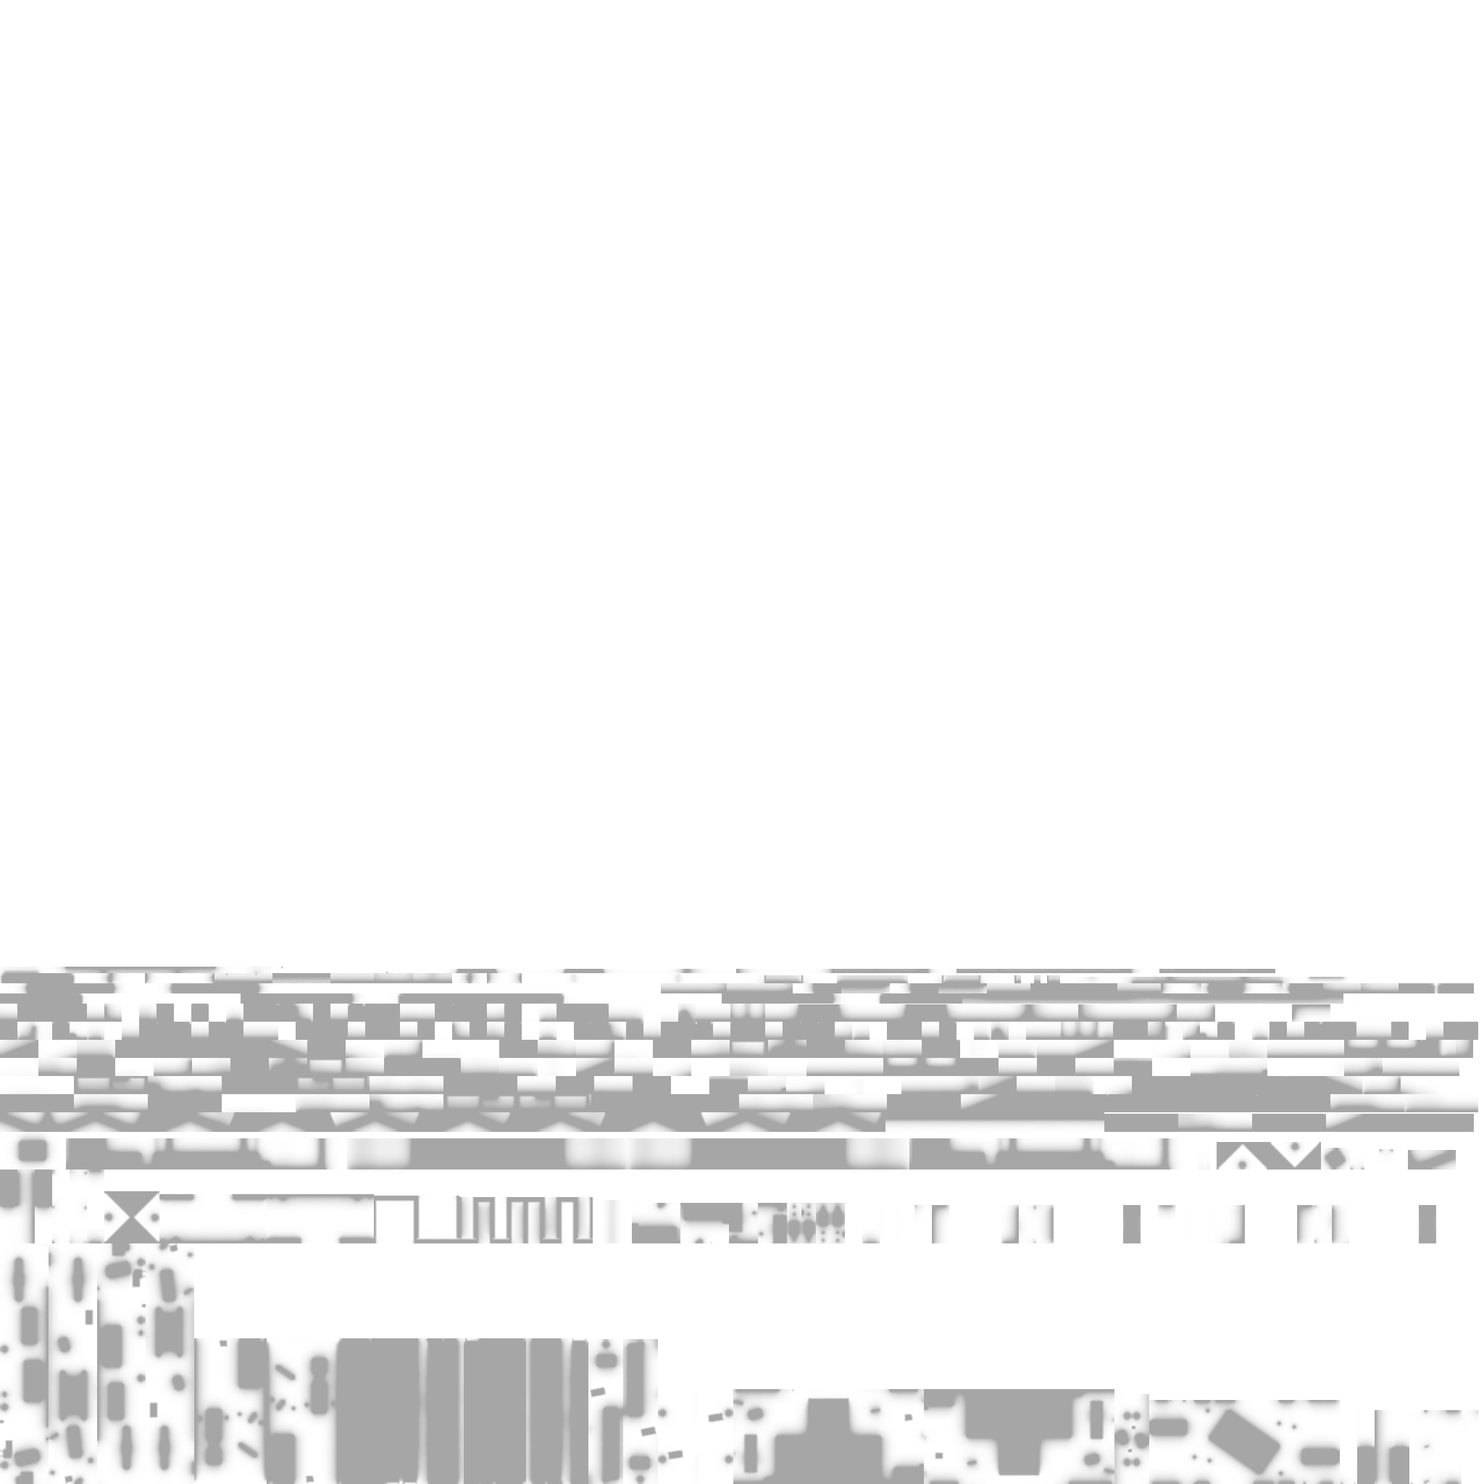
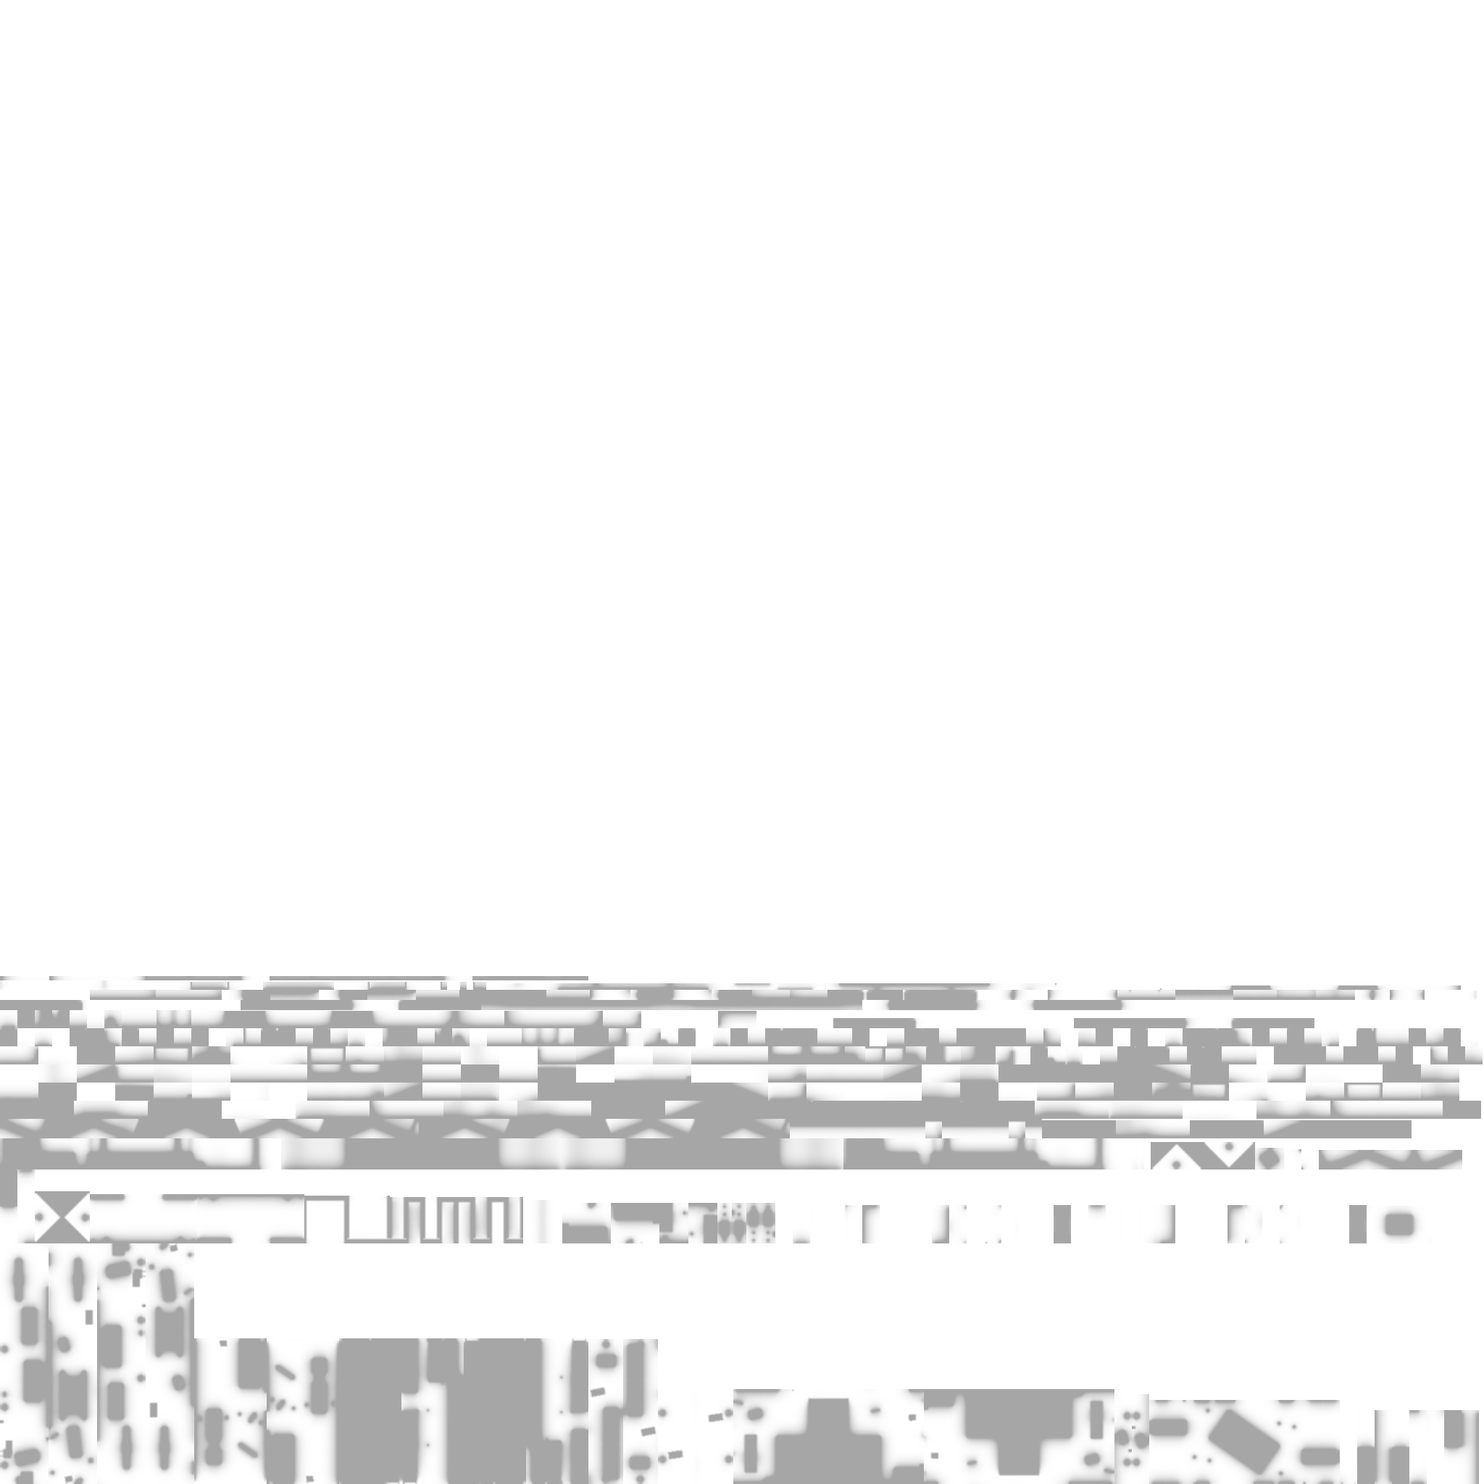
Tower Command stages round 2: Kelpline Terminal — a ground-level aisle through the containers
The user's "GAP" (round-1 feedback on shots 13–16) meant a gap through the containers so the tower stays on the ground,
not a bridge over the reefer alley. Tower Command only (originals notIn 'tower', replacements onlyIn 'tower'); Turf War
and Zone Control build exactly as before (their layout + dressing unchanged; kelpline.png rebakes byte-identical).
- The reefer rack gets an aisle (layout.js AISLE): row 0's 40' becomes a 20' and a 10' with a 3.1 m aisle between them
  (doors on the aisle); the grate catwalk is cut over it (hazard-striped ends, the base half stops at the column pair,
  still a jumpable gap); checkpoint 3 now stands on the ground in it
- Row 1's boxes are lifted out and row 2's three boxes along the aisle slide 0.9 m toward the apron, so the track turns
  and runs down row 1's empty slot at ground level to the base apron (no climb at s 83, no drop at s 108)
- Row 1's mid stair lands on a new grate landing that steps across onto the catwalk (edge channels, a post)
- Reefer rack dressing: a Tower-only copy with the catwalk cut (stringers / cross members / lamps stop, a cable over the
  aisle droops the other way), no plug-in cables on the side where row 1 was, the landing's steel; a 10' box length
- Round 1's crossover plate and its dressing removed; the twistlock bin by the goal moved 0.7 m off the track
- Track: the last two corners 0.52 m further out (berth-local x 12.2) to centre the platform in row 1's slot; same shape
  and checkpoints
[…]

diff --git a/src/world/stages/kelpline/props.js b/src/world/stages/kelpline/props.js
@@ -7,7 +7,7 @@
 //
 // Conventions: metres, Y up, `pos` = base point, rotY turns local +Z (the "front"). Wall-mounted pieces treat local
 // z = 0 as the wall face and project toward +Z. Signage uses 3D channel / flat painted letters from a stroke font.
-import { LOCAL, ROT_RAD, toWorld, GRID, CROSSOVER } from './layout.js';
+import { LOCAL, ROT_RAD, toWorld, AISLE } from './layout.js';
 
 const P = Math.PI;
 
@@ -544,7 +544,7 @@ export function register(D, H) {
   // the door end (two leaves, four locking bars with cams + handles, hinges, CSC plate, owner code), or for reefers the
   // machinery end at −Z (grille, fan, control box, power cable). Everything hugs the block faces (≤ 4 cm proud).
   function containerBody(B, x, y, z, len, color, o = {}) {
-    const L = len === 20 ? 6.06 : 12.19, W = 2.44, Hh = o.h ?? 2.6, c = color, dk = shade(c, 0.8), dk2 = shade(c, 0.6);
+    const L = len === 20 ? 6.06 : len === 10 ? 2.99 : 12.19, W = 2.44, Hh = o.h ?? 2.6, c = color, dk = shade(c, 0.8), dk2 = shade(c, 0.6);
     B.push(x, y, z, o.ry ?? 0);
     if (o.bottom) {
       // loose box (hanging from the spreader / on a chassis): core + ribbed side sheets + cross members underneath
@@ -628,7 +628,7 @@ export function register(D, H) {
   }
   D.kelpline_box = {
     desc: 'Container dressing for a stack box (the body is a level block): corner posts + castings, rails, forklift pockets, door end (locking bars, cams, hinges, CSC plate, owner code) at +Z or a reefer machinery end — hardware only over the block face, so ink on the end shows. pos = bottom centre, local Z = length.',
-    params: { len: '20 | 40', color: 'box paint', door: '+1 door at local +Z, -1 at −Z', reefer: 'bool', code: 'owner code' }, variants: 1, mount: 'ground',
+    params: { len: '10 | 20 | 40', color: 'box paint', door: '+1 door at local +Z, -1 at −Z', reefer: 'bool', code: 'owner code' }, variants: 1, mount: 'ground',
     build(B, o) {
       B.aoBase = null;
       containerBody(B, 0, 0, 0, o.len ?? 20, o.color ?? '#a8583f', { doorAt: o.door ?? 1, reefer: !!o.reefer, code: o.code });
@@ -787,13 +787,17 @@ export function register(D, H) {
   // between the reefer rows): column pairs every ~6 m at the alley edges (colliders), channel stringers + cross members
   // under the grate catwalk (catwalk top 2.6), top frame at 5.7 with cable trays, CEE socket boxes + plugged cables
   // to the reefers, alley lights under the catwalk, floods on the top frame, R2 end plates.
+  // Tower Command's build (layout.js AISLE) passes gap: [z0, z1] where the catwalk is cut for the tower's aisle (its
+  // stringers stop, hazard-striped ends), bare: [sx, z] — no reefer row on side sx below z (no cables to plug in) — and
+  // landing: [z0, z1], the grate landing at row 1's stair top off the −X side (the grate is a level block).
   D.kelpline_reeferrack = {
     desc: 'Reefer plug-in rack over an alley (pos = alley centre at ground, local Z along it): columns (colliders), catwalk stringers + cross members, top frame + cable trays, socket boxes + cables, lights, end plates.',
-    params: { length: 'm (18.35)', width: 'alley m (2.0)', name: 'end plate (R2)' }, variants: 1, mount: 'ground',
+    params: { length: 'm (18.35)', width: 'alley m (2.0)', name: 'end plate (R2)', gap: '[z0, z1] catwalk cut', bare: '[sx, z] no cables on side sx below z', landing: '[z0, z1] stair landing off −X' }, variants: 1, mount: 'ground',
     build(B, o) {
       B.aoBase = null;
       const L = o.length ?? 18.35, W = o.width ?? 2.0, YC = 2.6, YT = 5.7, bl = K.blue, bd = K.blueDk;
       const n = Math.max(2, Math.round(L / 6)) + 1, cz = (i) => -L / 2 + 0.15 + ((L - 0.3) * i) / (n - 1);
+      const gap = o.gap, inGap = (zz) => !!gap && zz > gap[0] - 0.05 && zz < gap[1] + 0.05;
       for (let i = 0; i < n; i++) {
         const z = cz(i);
         for (const sx of [-1, 1]) {
@@ -811,18 +815,22 @@ export function register(D, H) {
             pbox(B, NS('glow'), '#8fe39a', 0.05, 0.03, 0.01, 0.1, 0.16, 0.145, { glow: 1.4 });
             B.pop();
           }
-          B.tube(NS('paint'), '#26282c', [P3(x + sx * 0.3, YC + 0.9, z), P3(x + sx * 0.45, YC + 0.35, z + 0.2), P3(x + sx * 0.8, YC + 0.06, z + 0.5), P3(x + sx * 1.6, YC + 0.03, z + 0.7)], 0.025, { radial: 5 });
+          if (o.bare && sx === o.bare[0] && z < o.bare[1]) continue;
+          const f = inGap(z + 0.7) ? -1 : 1;   // (a cable that would hang over the aisle droops the other way, onto the box)
+          B.tube(NS('paint'), '#26282c', [P3(x + sx * 0.3, YC + 0.9, z), P3(x + sx * 0.45, YC + 0.35, z + f * 0.2), P3(x + sx * 0.8, YC + 0.06, z + f * 0.5), P3(x + sx * 1.6, YC + 0.03, z + f * 0.7)], 0.025, { radial: 5 });
         }
         // top cross beam + catwalk cross member + lamp under the catwalk
         pbox(B, 'paint', bl, W, 0.22, 0.16, 0, YT - 0.11, z);
         pbox(B, NS('paint'), bd, W - 0.2, 0.14, 0.1, 0, YC - 0.22, z);
-        B.box(NS('paint'), K.charcoal, 0.5, 0.08, 0.18, 0, YC - 0.34, z + 0.4, { r: 0.02 });
-        pbox(B, NS('glow'), K.lampCool, 0.44, 0.012, 0.12, 0, YC - 0.385, z + 0.4, { glow: 3.2 });
+        const lz = inGap(z + 0.4) ? z - 0.4 : z + 0.4;
+        B.box(NS('paint'), K.charcoal, 0.5, 0.08, 0.18, 0, YC - 0.34, lz, { r: 0.02 });
+        pbox(B, NS('glow'), K.lampCool, 0.44, 0.012, 0.12, 0, YC - 0.385, lz, { glow: 3.2 });
       }
       // catwalk stringers along both edges + intermediate cross members every 1.2 m
+      const spans = gap ? [[-L / 2, gap[0]], [gap[1], L / 2]] : [[-L / 2, L / 2]];
       for (const sx of [-1, 1]) {
-        pbox(B, 'paint', bd, 0.08, 0.22, L, sx * (W / 2 - 0.05), YC - 0.26, 0);
-        pbox(B, NS('paint'), K.hazY, 0.085, 0.05, L, sx * (W / 2 - 0.05), YC - 0.13, 0);
+        for (const [a, b] of spans) pbox(B, 'paint', bd, 0.08, 0.22, b - a, sx * (W / 2 - 0.05), YC - 0.26, (a + b) / 2);
+        for (const [a, b] of spans) pbox(B, NS('paint'), K.hazY, 0.085, 0.05, b - a, sx * (W / 2 - 0.05), YC - 0.13, (a + b) / 2);
         // top longitudinal beams + cable trays
         pbox(B, 'paint', bl, 0.16, 0.26, L, sx * (W / 2 - 0.11), YT - 0.13, 0);
         B.push(sx * (W / 2 - 0.45), YT + 0.1, 0);
@@ -831,7 +839,25 @@ export function register(D, H) {
         for (let k = 0; k < 4; k++) B.cyl(NS('paint'), ['#26282c', '#3a3d44', '#2e4a6a', '#26282c'][k], 0.03, L, -0.15 + k * 0.1, 0.045, 0, { rx: HP, seg: 5 });
         B.pop();
       }
-      for (let z = -L / 2 + 0.6; z < L / 2 - 0.3; z += 1.2) pbox(B, NS('paint'), bd, W - 0.2, 0.08, 0.06, 0, YC - 0.2, z);
+      for (let z = -L / 2 + 0.6; z < L / 2 - 0.3; z += 1.2) if (!inGap(z)) pbox(B, NS('paint'), bd, W - 0.2, 0.08, 0.06, 0, YC - 0.2, z);
+      // the catwalk's cut ends: hazard stripes on the end faces, a cross channel under an end that's clear of a column pair
+      if (gap) for (const [ze, f] of [[gap[0], 1], [gap[1], -1]]) {
+        B.push(0, YC - 0.075, ze, f > 0 ? 0 : PI); hazard(B, W - 0.04, 0.13, 0, 0, 0.001, { pitch: 0.24 }); B.pop();
+        let near = false;
+        for (let i = 0; i < n; i++) if (Math.abs(cz(i) - ze) < 0.3) near = true;
+        if (!near) pbox(B, NS('paint'), bd, W - 0.2, 0.14, 0.1, 0, YC - 0.22, ze - f * 0.06);
+      }
+      // row 1's stair landing off the −X side: edge channels under its open sides, a post at its free corner (collider),
+      // hazard stripes along its open edge
+      if (o.landing) {
+        const [z0, z1] = o.landing, x0 = -W / 2 - 2.44, xm = (x0 - W / 2) / 2;
+        pbox(B, 'paint', bd, 2.44, 0.22, 0.08, xm, YC - 0.26, z0 + 0.04);
+        pbox(B, 'paint', bd, 0.08, 0.22, z1 - z0, x0 + 0.04, YC - 0.26, (z0 + z1) / 2);
+        B.push(xm, YC - 0.075, z0, PI); hazard(B, 2.4, 0.13, 0, 0, 0.001, { pitch: 0.24 }); B.pop();
+        pbox(B, 'paint', bl, 0.14, YC - 0.15, 0.14, x0 + 0.09, (YC - 0.15) / 2, z0 + 0.09);
+        pbox(B, NS('metal'), K.galvDk, 0.26, 0.03, 0.26, x0 + 0.09, 0.015, z0 + 0.09);
+        B.col(x0 + 0.02, 0, z0 + 0.02, x0 + 0.16, YC - 0.15, z0 + 0.16);
+      }
       // floods on the top frame over the rows, end plates
       for (let i = 0; i < n; i += 2) for (const sx of [-1, 1]) flood(B, sx * 0.4, YT + 0.35, cz(i), { rx: 0, glow: 1.5 });
       for (const sz of [-1, 1]) {
@@ -840,19 +866,6 @@ export function register(D, H) {
         letters(B, 'REEFER ' + (o.name ?? 'R2'), { h: 0.2, x: 0, y: -0.1, z: 0.03, c: bd, flat: true, wt: 0.22 });
         B.pop();
       }
-    },
-  };
-
-  // Tower Command crossover over the reefer alley (the plate itself is a layout block: layout.js CROSSOVER): hazard bands
-  // on its two ends, where the grate catwalk carries on either side. pos = the plate's top centre; w across the alley,
-  // d along it. Non-colliding.
-  D.kelpline_crossover = {
-    desc: 'Crossover plate dressing (pos = top centre of the plate block; w across the alley, d along it, t thick): hazard-striped end faces. Non-colliding.',
-    params: { w: 'm (2.0)', d: 'm (3.0)', t: 'plate thickness (0.15)' }, variants: 1, mount: 'ground',
-    build(B, o) {
-      B.aoBase = null;
-      const w = o.w ?? 2.0, d = o.d ?? 3.0, t = o.t ?? 0.15;
-      for (const sz of [-1, 1]) { B.push(0, -t / 2, (sz * d) / 2, sz > 0 ? 0 : PI); hazard(B, w - 0.04, t - 0.02, 0, 0, 0.001, { pitch: 0.24 }); B.pop(); }
     },
   };
 
@@ -1793,7 +1806,11 @@ const LOCAL_PLACEMENTS = [
   { type: 'kelpline_quayedge', pos: [-29.5, 0, -46.4], rotY: -P / 2, length: 4.4 },
   { type: 'kelpline_quayedge', pos: [-24, 0, -46.4], rotY: P, length: 5.5, bollards: [2.7] },
   // the reefer rack over the alley, hatch-cover dressing (mid landing — square to the harbour — + apron)
-  { type: 'kelpline_reeferrack', pos: [-9.44, 0, -16.125], rotY: 0, length: 18.35, width: 2.0, name: 'R2' },
+  { type: 'kelpline_reeferrack', pos: [-9.44, 0, -16.125], rotY: 0, length: 18.35, width: 2.0, name: 'R2', notIn: 'tower' },
+  // (Tower Command: the rack over its aisle — layout.js AISLE — the catwalk cut, no cables on the side where row 1 was,
+  //  row 1's stair landing; rack-local z = local z + 16.125)
+  { type: 'kelpline_reeferrack', pos: [-9.44, 0, -16.125], rotY: 0, length: 18.35, width: 2.0, name: 'R2', onlyIn: 'tower',
+    gap: AISLE.gap.map((z) => z + 16.125), bare: [-1, AISLE.landing + 16.125], landing: [AISLE.landing + 16.125, -13.25 + 16.125] },
   { type: 'kelpline_hatch', pos: [0, 0, 0], rotY: 0, w: 10.8, d: 6, h: 1.2, num: '4', mirror: false, world: true },
   { type: 'kelpline_hatch', pos: [0, 0, 0], rotY: 0, w: 4.4, d: 3.2, h: 1.2, y0: 1.2, c: '#58779a', mirror: false, world: true },
   { type: 'kelpline_hatch', pos: [18.6, 0, -23.5], rotY: P / 2, w: 7, d: 2.8, h: 1.2, num: '7' },
@@ -1807,7 +1824,8 @@ const LOCAL_PLACEMENTS = [
   { type: 'kelpline_cage', pos: [22.7, 0, -35], rotY: P / 2 },
   { type: 'kelpline_cage', pos: [-22.9, 0, -12.5], rotY: P / 2 },
   { type: 'kelpline_cage', pos: [1.2, 0, -7.6], rotY: 0.08, variant: 1 },
-  { type: 'kelpline_cage', pos: [-13.8, 0, -36.2], rotY: 0.04, variant: 1 },
+  { type: 'kelpline_cage', pos: [-13.8, 0, -36.2], rotY: 0.04, variant: 1, notIn: 'tower' },
+  { type: 'kelpline_cage', pos: [-14.5, 0, -36.2], rotY: 0.04, variant: 1, onlyIn: 'tower' },   // (Tower Command: off the goal)
   { type: 'kelpline_cage', pos: [27.2, 0, -3.2], rotY: 0.15 },
   // flat rack with crated cargo on the left apron, light towers (cover by day, the lamps at dusk)
   { type: 'kelpline_flatrack', pos: [19.2, 0, -14.0], rotY: 0, len: 20 },
@@ -1844,8 +1862,6 @@ const LOCAL_PLACEMENTS = [
   { type: 'cone', pos: [7.2, 0, -4.4], notIn: 'tower' }, { type: 'cone', pos: [8.9, 0, -0.6], notIn: 'tower' }, { type: 'cone', pos: [-6.3, 0, -5.4] },
   // (Tower Command: the track runs out from the centre and back along the stack ends — those two stand inside its bend)
   { type: 'cone', pos: [6.0, 0, -3.2], onlyIn: 'tower' }, { type: 'cone', pos: [8.6, 0, -2.6], onlyIn: 'tower' },
-  // Tower Command: the crossover plate's hazard ends (layout.js CROSSOVER)
-  { type: 'kelpline_crossover', pos: [(GRID.RF.alley[0] + GRID.RF.alley[1]) / 2, 2.6, (CROSSOVER[0] + CROSSOVER[1]) / 2], rotY: 0, w: GRID.RF.alley[1] - GRID.RF.alley[0], d: CROSSOVER[1] - CROSSOVER[0], onlyIn: 'tower' },
   // safety boards
   { type: 'kelpline_signboard', pos: [-8.1, 0, -35.0], rotY: 0.2, variant: 0 },
   { type: 'kelpline_signboard', pos: [15.5, 0, -33.6], rotY: -0.25, variant: 2 },

diff --git a/src/world/stages/kelpline/layout.js b/src/world/stages/kelpline/layout.js
@@ -84,8 +84,8 @@ function slotSides(pieces) {
   }
 }
 
-// ISO box: 2.44 wide, 2.6 high (high cube ≈ 2.9, we use 2.6 so tiers stay jump-sized), 6.06 / 12.19 long
-const CW = 2.44, CH = 2.6, LEN = { 20: 6.06, 40: 12.19 };
+// ISO box: 2.44 wide, 2.6 high (high cube ≈ 2.9, we use 2.6 so tiers stay jump-sized), 6.06 / 12.19 long (a 10' 2.99)
+const CW = 2.44, CH = 2.6, LEN = { 10: 2.99, 20: 6.06, 40: 12.19 };
 // a container along z: x0 = its −X side, z0 = its −Z end, tier 0 = on the ground. o.door: 1 = doors at the +Z end
 // (0 = −Z), o.logo: 1–3 = 40' line logo (murals 9/10 on both long sides), o.reefer: machinery end.
 // The tag carries the dressing spec for props.js (container castings, doors, reefer units).
@@ -131,8 +131,12 @@ const X_ = [1, 0, 0], _X = [-1, 0, 0], Z_ = [0, 0, 1], _Z = [0, 0, -1];
 // Tower Command's own build (variants.js: a tower match builds '<id>.tower'): pieces only in it / left out of it. The
 // track (src/world/tower-data.js) is authored on Bravo's half; its mirror — Bravo's push — runs through this half.
 const towerOnly = (p) => ({ ...p, onlyIn: 'tower' }), notTower = (p) => ({ ...p, notIn: 'tower' });
-// the track crosses the reefer alley here (local z; Alpha's checkpoint 3 on the mirror): a solid crossover plate
-export const CROSSOVER = [-19.0, -16.0];
+// Tower Command's aisle through the reefer rack (the user's "GAP"): the track stays on the ground there. It comes across
+// the truck lane through a cut in row 0 and under a cut in the grate catwalk (local z gap[0] … gap[1], between the
+// rack's middle column pairs; checkpoint 3 stands in it), then turns toward the base down row 1's slot: row 1's boxes are
+// lifted out and row 2's shifted `shift` m toward the apron so the platform fits. Row 1's mid stair lands on a grate
+// landing (local z landing … −13.25) that steps across onto the catwalk.
+export const AISLE = { gap: [-19.24, -16.1], shift: 0.9, landing: -14.65 };
 
 // Local-frame pieces (exported for props.js: the container / stair dressing is generated from them)
 export const LOCAL = {
@@ -199,16 +203,21 @@ export const LOCAL = {
 
     // ================= Reefer rack (−X): reefers either side of the plug-in rack; grate catwalk over the alley
     ...stairZ(RF.row0 + CW / 2, G.zs, -25.3, 0, 2.6, 2.3),
-    box(RF.row0, -25.3, 40, 0, K.white, { reefer: 1 }), box(RF.row0, -13.01, 20, 0, K.white, { reefer: 1, door: 0 }),
+    notTower(box(RF.row0, -25.3, 40, 0, K.white, { reefer: 1 })), box(RF.row0, -13.01, 20, 0, K.white, { reefer: 1, door: 0 }),
     notTower(B(RF.alley[0], RF.alley[1], 2.45, 2.6, -25.3, -6.95, { tag: 'reefer-catwalk', color: K.steel, pattern: PATTERN.grate, grate: true })),
-    // Tower Command: the track crosses the alley on the stack tops (the user's "GAP"): the grate catwalk stops either side
-    // of a solid chequer-plate crossover flush with the reefer tops, between two of the rack's column pairs
-    ...[[-25.3, CROSSOVER[0]], [CROSSOVER[1], -6.95]].map(([z0, z1]) => towerOnly(B(RF.alley[0], RF.alley[1], 2.45, 2.6, z0, z1, { tag: 'reefer-catwalk', color: K.steel, pattern: PATTERN.grate, grate: true }))),
-    towerOnly(B(RF.alley[0], RF.alley[1], 2.45, 2.6, CROSSOVER[0], CROSSOVER[1], { tag: 'crossover', color: '#63788e', pattern: SURF.chequer })),
-    box(RF.row1, G.zs, 20, 0, K.white, { reefer: 1, door: 0 }), box(RF.row1, -25.44, 40, 0, K.cream, { reefer: 1 }),
+    notTower(box(RF.row1, G.zs, 20, 0, K.white, { reefer: 1, door: 0 })), notTower(box(RF.row1, -25.44, 40, 0, K.cream, { reefer: 1 })),
     ...stairZ(RF.row1 + CW / 2, -6.95, -13.25, 0, 2.6, 2.3),
-    box(RF.row2, G.zs, 20, 0, K.white, { reefer: 1, door: 0 }), box(RF.row2, G.zs, 20, 1, K.white, { reefer: 1, door: 0 }), box(RF.row2, -25.44, 40, 0, K.white, { reefer: 1 }),
-    box(RF.row2, -13.15, 20, 0, K.white, { reefer: 1 }), box(RF.row2, -13.15, 20, 1, K.cream, { reefer: 1 }),
+    notTower(box(RF.row2, G.zs, 20, 0, K.white, { reefer: 1, door: 0 })), notTower(box(RF.row2, G.zs, 20, 1, K.white, { reefer: 1, door: 0 })), notTower(box(RF.row2, -25.44, 40, 0, K.white, { reefer: 1 })),
+    notTower(box(RF.row2, -13.15, 20, 0, K.white, { reefer: 1 })), box(RF.row2, -13.15, 20, 1, K.cream, { reefer: 1 }),
+    // Tower Command: the aisle (AISLE above). Row 0's 40' becomes a 20' and a 10' with the aisle between them (doors on
+    // the aisle); the catwalk stops either side of it (the base half at the column pair); row 1 lifted out; row 2's three
+    // boxes along the aisle slid out toward the apron (the mid-end pair stays; its box is rebuilt only so its end — no
+    // longer in a slot — takes ink)
+    towerOnly(box(RF.row0, -25.3, 20, 0, K.white, { reefer: 1 })), towerOnly(box(RF.row0, AISLE.gap[1], 10, 0, K.white, { reefer: 1, door: 0 })),
+    ...[[-25.3, AISLE.gap[0]], [AISLE.gap[1], -6.95]].map(([z0, z1]) => towerOnly(B(RF.alley[0], RF.alley[1], 2.45, 2.6, z0, z1, { tag: 'reefer-catwalk', color: K.steel, pattern: PATTERN.grate, grate: true }))),
+    towerOnly(B(RF.row1, RF.row1 + CW, 2.45, 2.6, AISLE.landing, -13.25, { tag: 'reefer-landing', color: K.steel, pattern: PATTERN.grate, grate: true })),
+    towerOnly(box(RF.row2 - AISLE.shift, G.zs, 20, 0, K.white, { reefer: 1, door: 0 })), towerOnly(box(RF.row2 - AISLE.shift, G.zs, 20, 1, K.white, { reefer: 1, door: 0 })),
+    towerOnly(box(RF.row2 - AISLE.shift, -25.44, 40, 0, K.white, { reefer: 1 })), towerOnly(box(RF.row2, -13.15, 20, 0, K.white, { reefer: 1 })),
 
     // ================= truck lane cover: a 20' on a skeletal chassis behind its tractor (box deck at 1.35: squids slip
     // under the chassis, its top at 3.95 is squid-only), a box the reach stacker just set down

diff --git a/src/world/tower-data.js b/src/world/tower-data.js
@@ -21,10 +21,11 @@ export const TOWER_DEFS = {
   },
   kelpline: {
     // on the berth's 35° grid (layout.js ROT; berth-local x across the pier, z along it — corners (0, 0), (−17.9, 0),
-    // (−17.9, 5.6), (−7.3, 5.6), (−7.3, 15.9), (−12.3, 15.9), (−12.3, 21.3), (−6.6, 21.3), (−6.6, 17.6), (11.68, 17.6),
-    // (11.68, 36)): out under the crane portal, back along the stack ends, up onto Block 4A, across the lane, over the
-    // reefer alley's crossover plate, along the reefer row and down onto the base apron
-    path: [[0, 0], [-14.66, 10.27], [-11.45, 14.85], [-2.77, 8.77], [3.14, 17.21], [-0.96, 20.08], [2.14, 24.5], [6.81, 21.23], [4.69, 18.2], [19.66, 7.72], [30.22, 22.79]],
+    // (−17.9, 5.6), (−7.3, 5.6), (−7.3, 15.9), (−12.3, 15.9), (−12.3, 21.3), (−6.6, 21.3), (−6.6, 17.6), (12.2, 17.6),
+    // (12.2, 36)): out under the crane portal, back along the stack ends, up onto Block 4A, down into the lane and on
+    // along the ground: through the reefer rack's aisle (layout.js AISLE; checkpoint 3 in it), down row 1's empty slot
+    // to the base apron
+    path: [[0, 0], [-14.66, 10.27], [-11.45, 14.85], [-2.77, 8.77], [3.14, 17.21], [-0.96, 20.08], [2.14, 24.5], [6.81, 21.23], [4.69, 18.2], [20.09, 7.42], [30.64, 22.49]],
     checkpoints: [[-6.92, 11.68], [-0.87, 20.02], [16.82, 9.71]],
   },
   halyard: {
